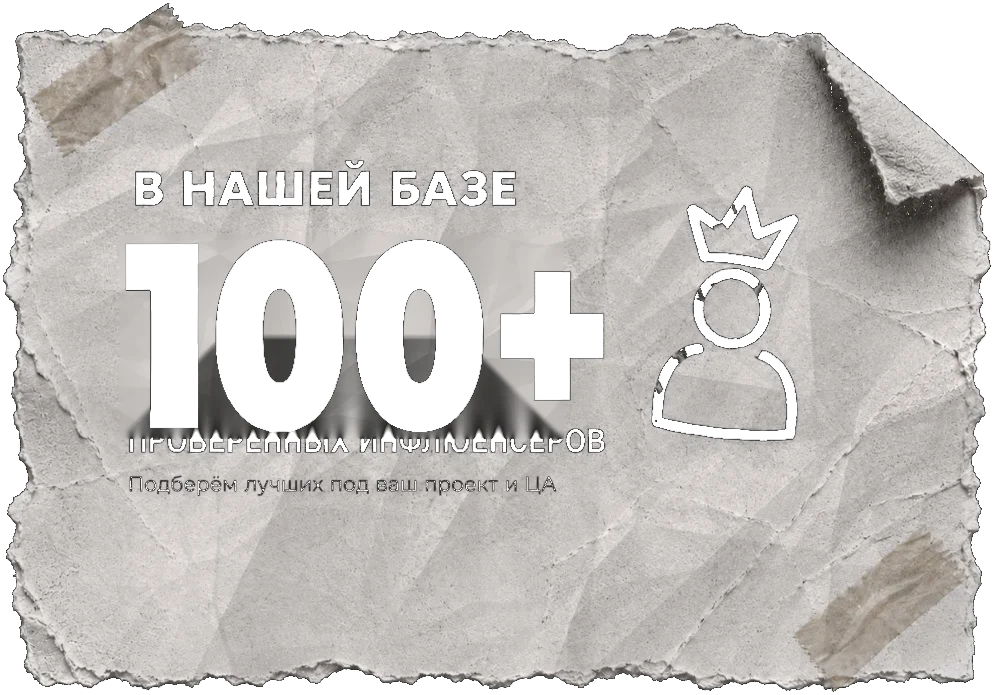
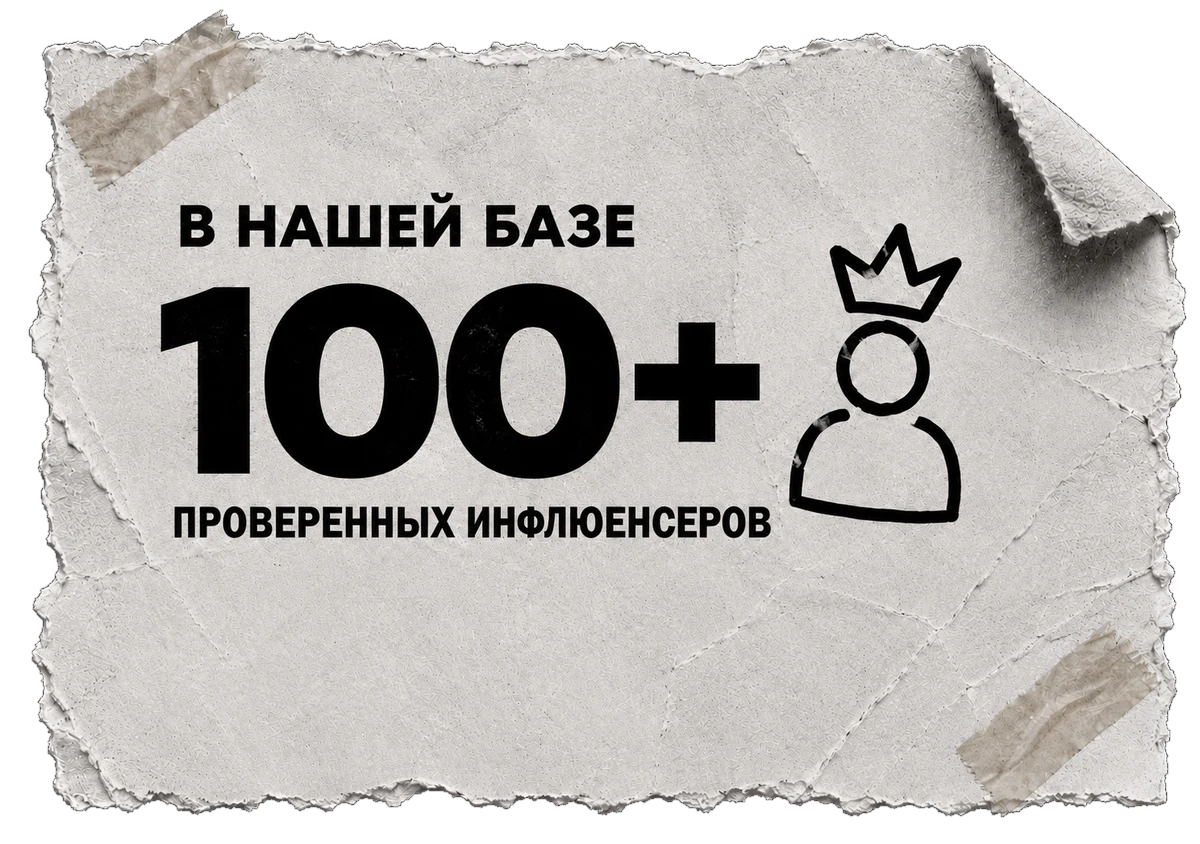
feat: replace lime and white stat card artwork
New torn-paper art for the 120+ campaigns and 100+ influencers stat cards,
cut out from the supplied renders with transparent background. Bump the
cache-buster to v=4.

diff --git a/src/App.tsx b/src/App.tsx
@@ -1747,7 +1747,7 @@ export default function App() {
                 <div
                   className="absolute inset-0 z-0 transition-all duration-300 pointer-events-none"
                   style={{
-                    backgroundImage: `url('${hoveredStat === 0 ? "/images/lime_torn_paper_hover.webp?v=3" : "/images/lime_torn_paper.webp?v=3"}')`,
+                    backgroundImage: `url('${hoveredStat === 0 ? "/images/lime_torn_paper_hover.webp?v=4" : "/images/lime_torn_paper.webp?v=4"}')`,
                     backgroundSize: "100% 100%",
                     backgroundPosition: "center",
                     backgroundRepeat: "no-repeat",
@@ -1808,7 +1808,7 @@ export default function App() {
                 <div
                   className="absolute inset-0 z-0 transition-all duration-300 pointer-events-none"
                   style={{
-                    backgroundImage: `url('${hoveredStat === 2 ? "/images/white_torn_paper_hover.webp?v=3" : "/images/white_torn_paper.webp?v=3"}')`,
+                    backgroundImage: `url('${hoveredStat === 2 ? "/images/white_torn_paper_hover.webp?v=4" : "/images/white_torn_paper.webp?v=4"}')`,
                     backgroundSize: "100% 100%",
                     backgroundPosition: "center",
                     backgroundRepeat: "no-repeat",
